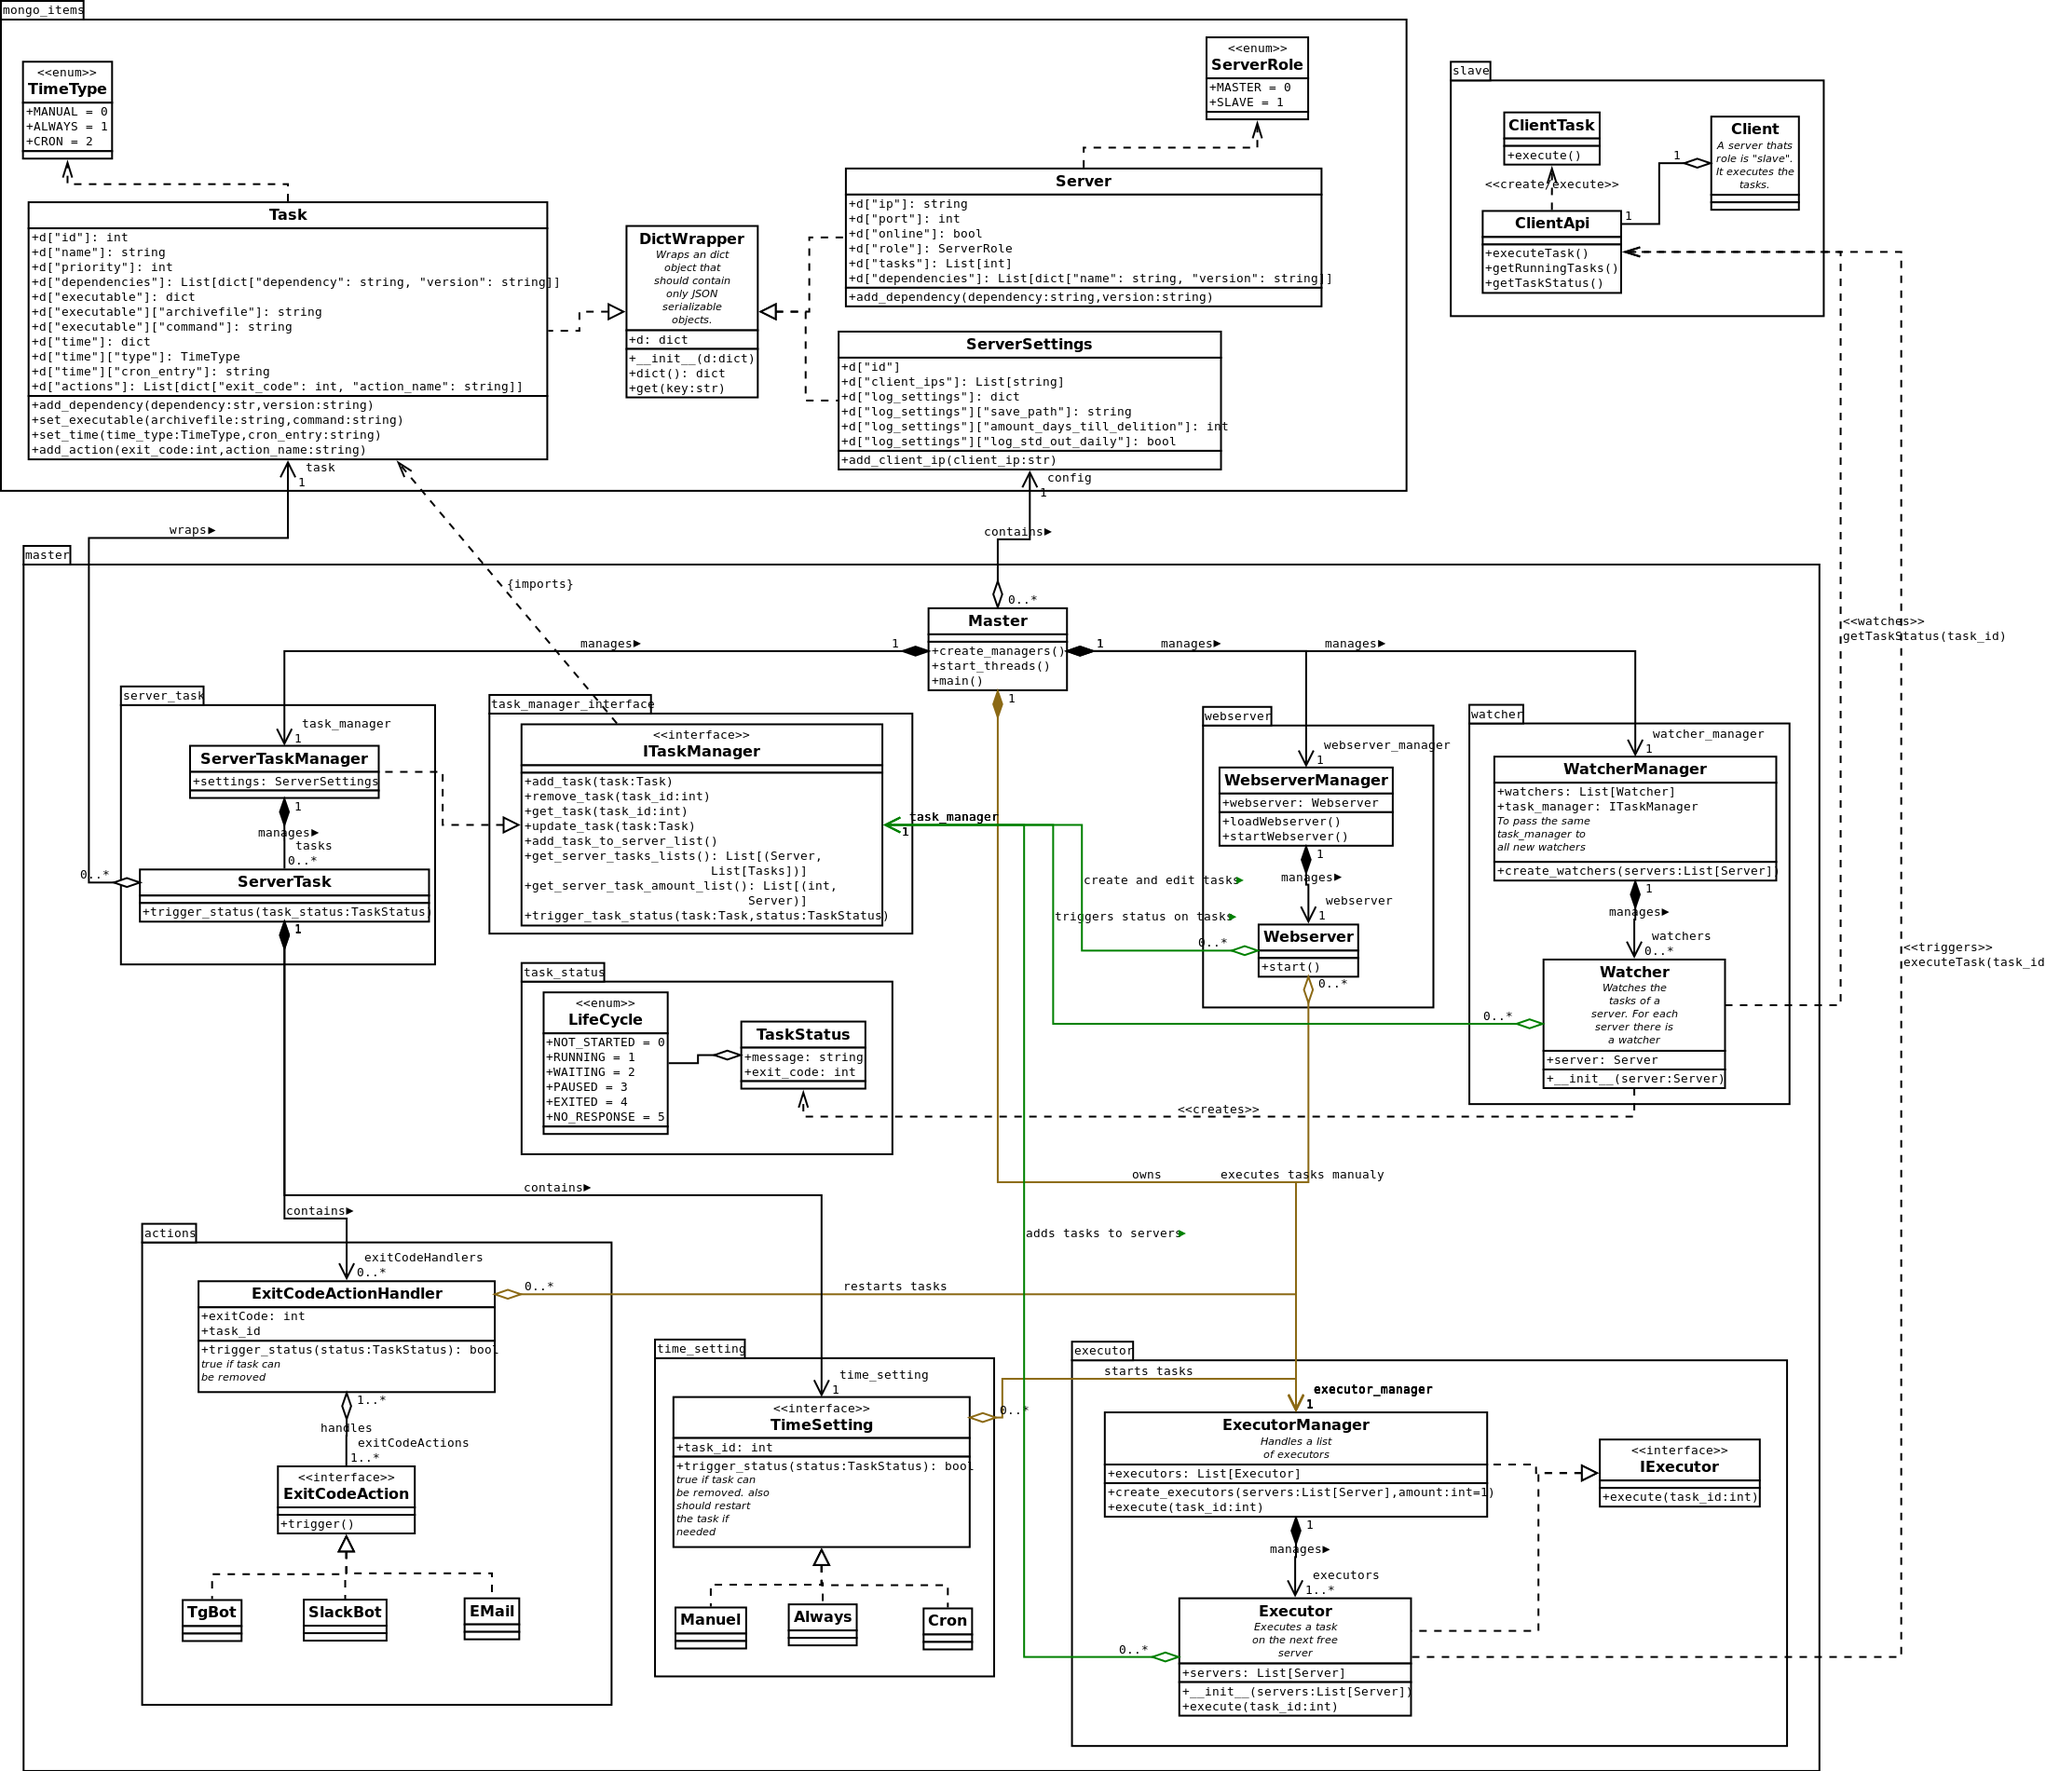
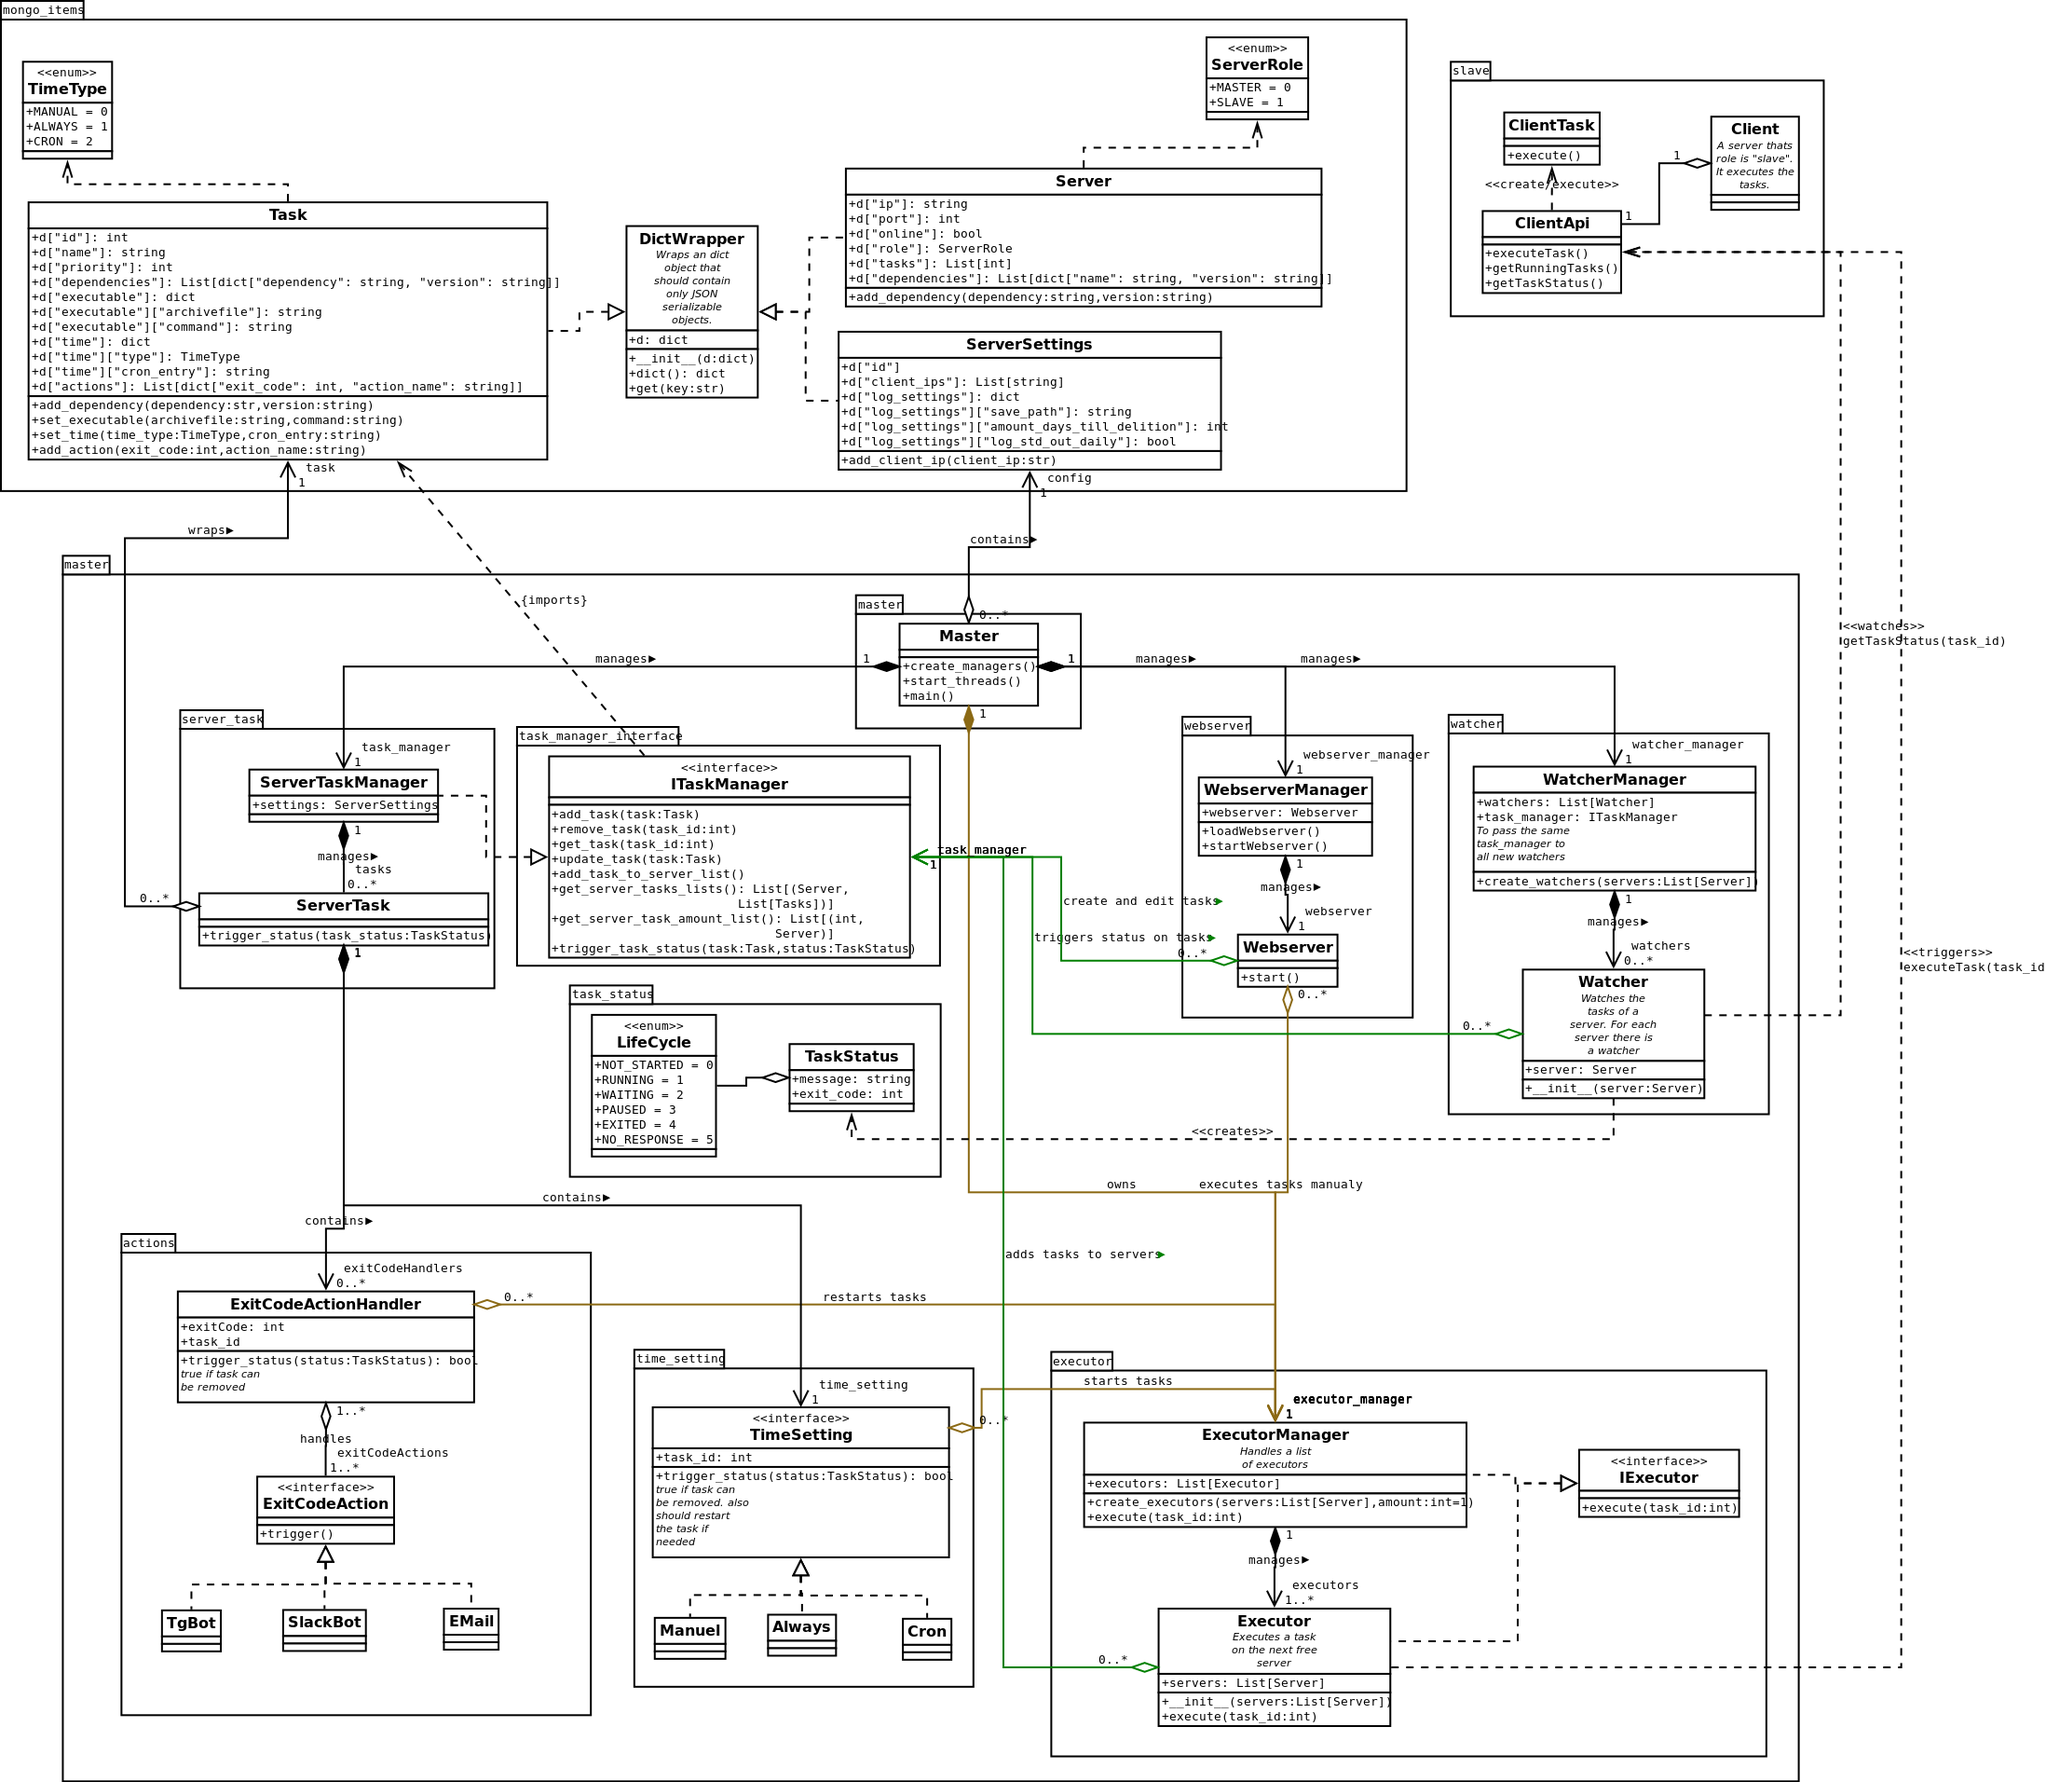
renamed classes and files like new scheme

diff --git a/src/master/executor.py b/src/master/executor.py
@@ -10,6 +10,11 @@ from my_curl import get_url
 from .interfaces import IExecutor
 
 
+class IExecutor(object):
+    def execute(task_id: int):
+        raise NotImplemented
+
+
 class Executor(IExecutor):
     """Executes a task on a server"""
 
@@ -53,6 +58,33 @@ class Executor(IExecutor):
         return out
 
 
+class ExecutorManager(IExecutor):
+    """Handles a list of executors"""
+
+    def __init__(self):
+        """Initial function"""
+        self.executors = []
+
+    def create_executors(self, servers: List[Server], amount: int=1):
+        for i in range(amount):
+            executor = Executor(servers)
+            self.executors.append(executor)
+
+    def execute(self, task_id: int):
+        executor = None
+        for i_executor in self.executors:
+            if not i_executor.blocked:
+                executor = i_executor
+                break
+        if executor == None:
+            # wait until one is free
+            executor = None  # free one
+            pass
+        executor.execute(task_id)
+
+    def start(self):
+        print("Not implemented now")
+
 
 def test_executor():
     print("### Test Executor")
@@ -63,3 +95,11 @@ def test_executor():
     servers.insert(0, s)
     executor = Executor(servers)
     executor.execute(2)
+
+def test_executor_manager():
+    print("### Test ExecutorManager")
+    exe_man = ExecutorManager()
+    servers = mongo_items.get_test_servers(2)
+    exe_man.create_executors(servers, 2)
+    # test
+    exe_man.execute(3)

diff --git a/src/master/server_task.py b/src/master/server_task.py
@@ -3,6 +3,7 @@ from mongo_items import Task
 # module imports
 from .interfaces import IExecutor
 
+
 class ServerTask(object):
     """
     A Wrapper around the Task class.
@@ -20,3 +21,29 @@ class ServerTask(object):
         """
         return self.task.get(key)
 
+
+class ServerTaskManager(ITaskManager):
+    def __init__(self, executor_manager: ExecutorManager):
+        """Initial function"""
+        self.executor_manager = executor_manager
+        self.tasks = load_tasks()
+
+    def execute(self, task_id: int):
+        self.executor_manager.execute(task_id)
+
+    def add_task(self, task: Task):
+        id = task.get("id")
+        for i_task in self.tasks:
+            if i_task.get("id") == id:
+                raise Exception("duplicate task id")
+        server_task = ServerTask(task, self.executor_manager)
+        self.tasks.append(server_task)
+
+    def remove_task(self, task_id: int):
+        raise NotImplemented
+
+    def update_task(self, task: Task):
+        raise NotImplemented
+
+    def get_task(self, task_id: int):
+        raise NotImplemented

diff --git a/src/master/task_status.py b/src/master/task_status.py
@@ -1,0 +1,15 @@
+from typing import IntEnum
+
+
+# TODO: documentation
+class LifeCicle(IntEnum):
+    NOT_STARTED = 0
+    RUNNING = 1
+    WAITING = 2
+    PAUSED = 3
+    EXITED = 4
+    NO_RESPONSE = 5
+
+
+class TaskStatus(object):
+    pass

diff --git a/src/master/actions.py b/src/master/actions.py
@@ -1,0 +1,14 @@
+class ExitCodeActionHandler(object):
+    pass
+
+class ExitCodeAction(object):
+    pass
+
+class TgBot(object):
+    pass
+
+class SlackBot(object):
+    pass
+
+class EMail(object):
+    pass

diff --git a/src/master/task_manager_interface.py b/src/master/task_manager_interface.py
@@ -22,8 +22,3 @@ class ITaskManager(object):
 
     def get_task(self, task_id: int):
         raise NotImplemented
-
-
-class IExecutor(object):
-    def execute(task_id: int):
-        raise NotImplemented

diff --git a/src/master/time_setting.py b/src/master/time_setting.py
@@ -14,6 +14,7 @@ class TimeSetting(object):
     def execute(self):
         self.executor_manager.execute()
 
+
 class Manual(TimeSetting):
     """Can only be executed manual"""
 

diff --git a/src/master/webserver.py b/src/master/webserver.py
@@ -33,3 +33,5 @@ class Webserver(object):
         self.app.run(self.host, self.port, self.debug)
 
 
+class WebserverManager(object):
+    pass

diff --git a/src/master/watcher.py b/src/master/watcher.py
@@ -1,0 +1,5 @@
+class Watcher(object):
+    pass
+
+class WatcherManager(object):
+    pass
